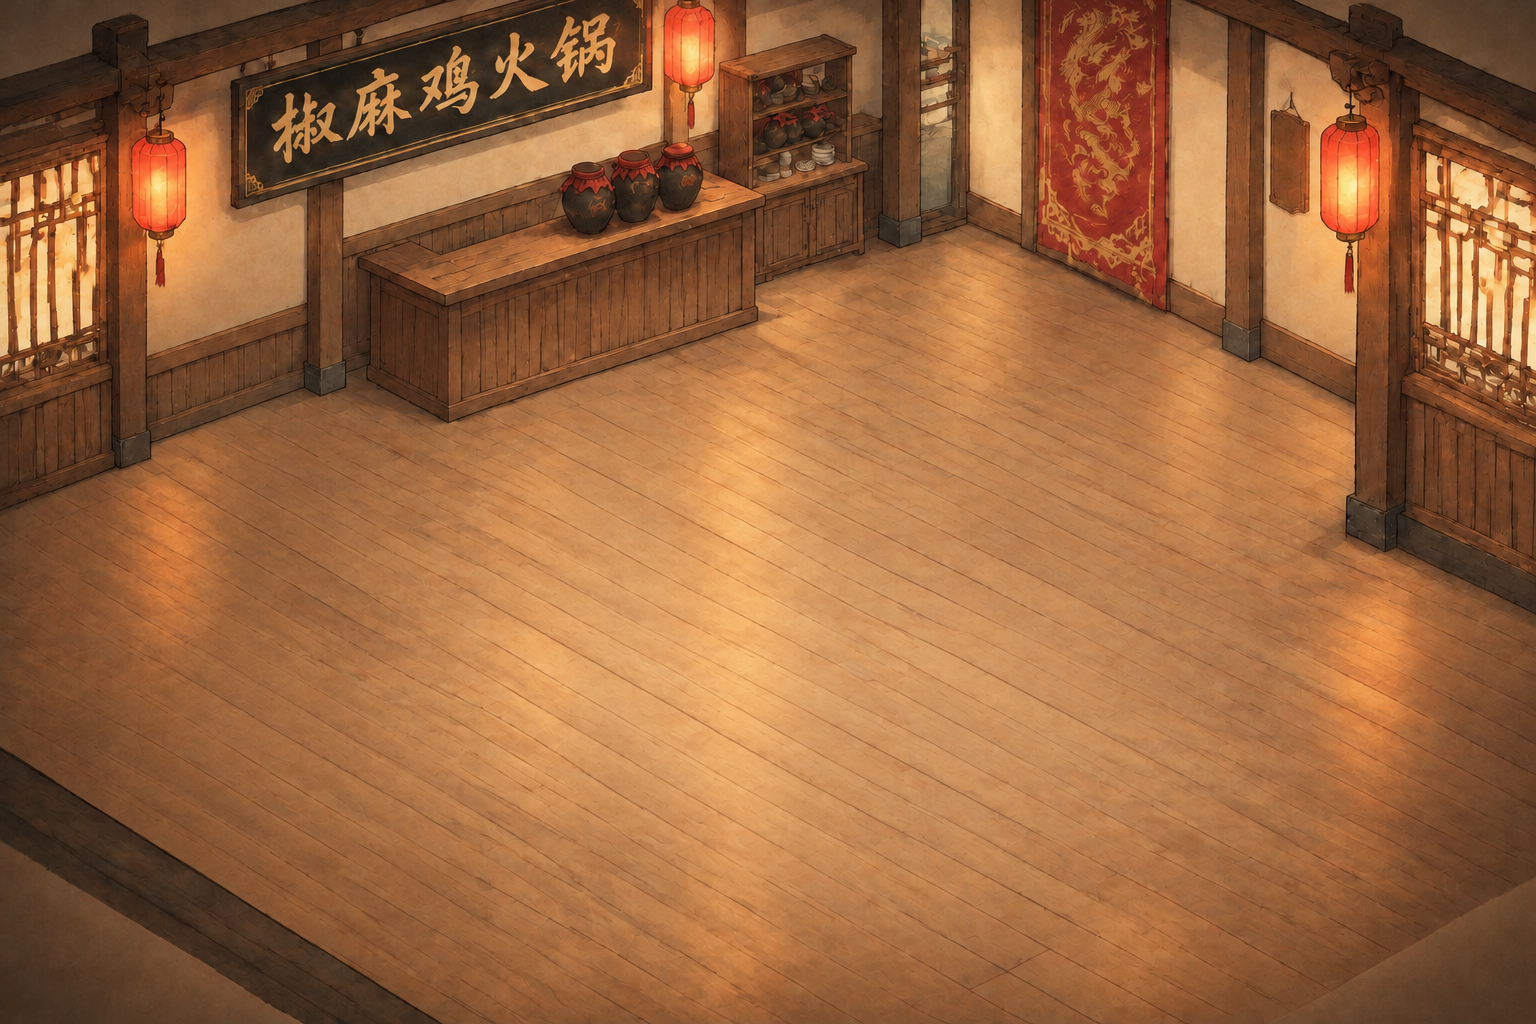
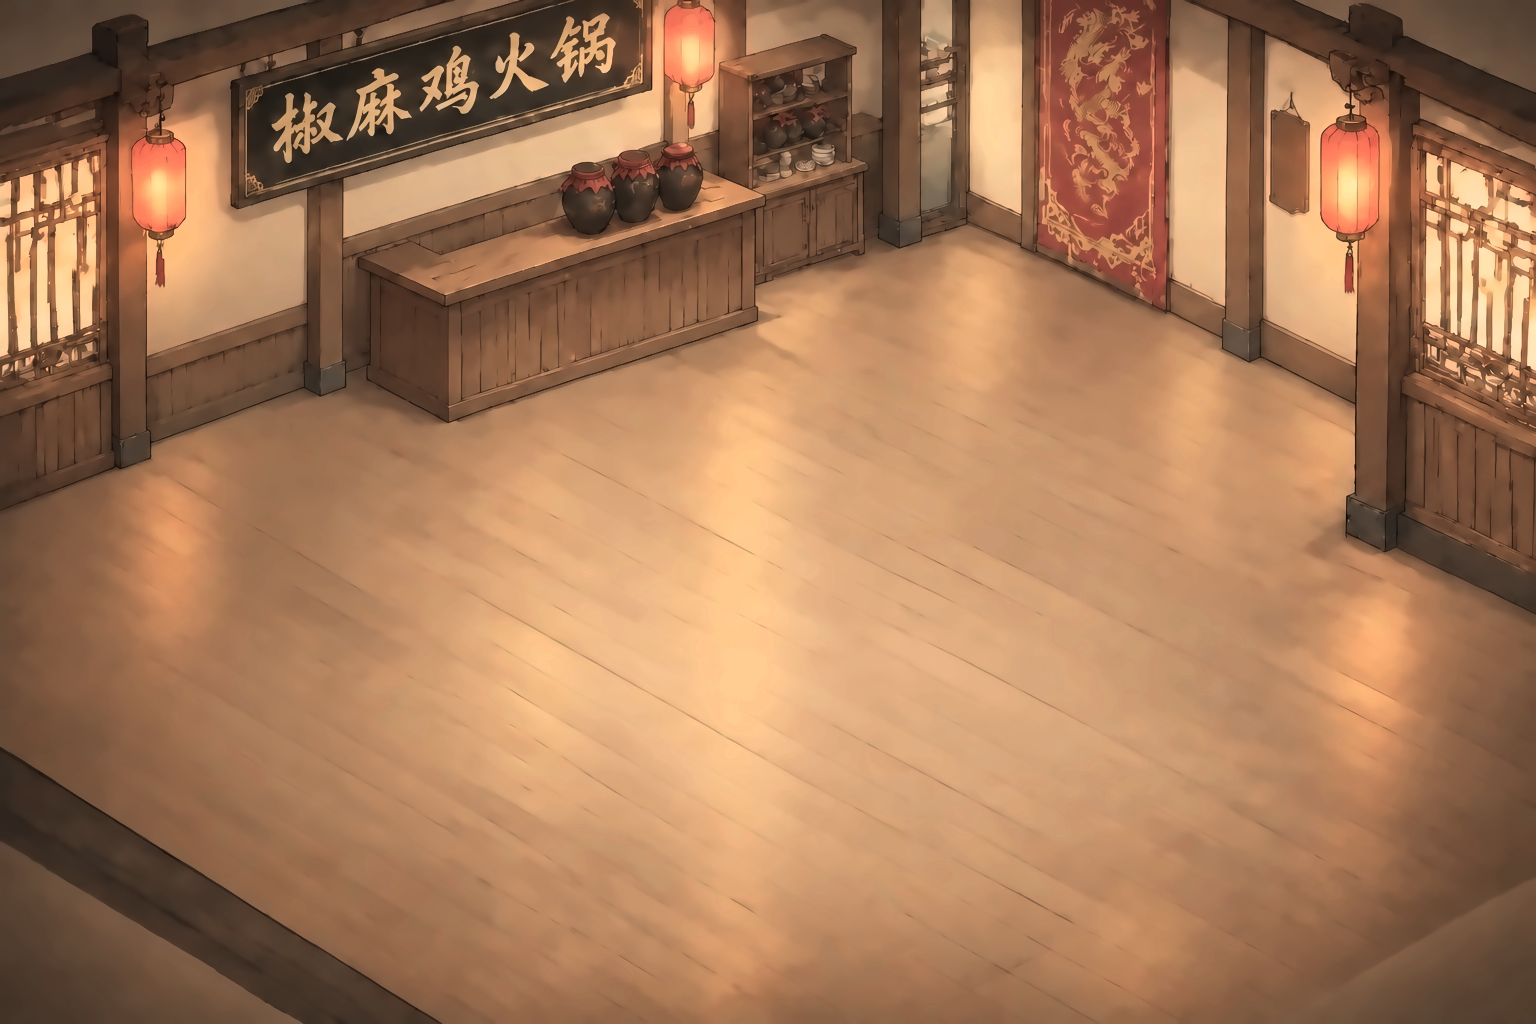
M10：战斗背景去噪

diff --git a/m10/assets.js b/m10/assets.js
@@ -1,5 +1,5 @@
 // 由 tools/prep_assets.py 自动生成，请勿手改。重跑 prep 即可更新。
-// 生成时间：2026-10-17 10:09:40  源目录：art/locked → art/ch4 → art/ch3 → art/m5 → art/m4 → art/m3
+// 生成时间：2026-10-17 10:26:45  源目录：art/locked → art/ch4 → art/ch3 → art/m5 → art/m4 → art/m3
 window.ASSETS = {
   "bg_room": {
     "file": "bg_room_clean.png",
@@ -274,8 +274,8 @@ window.ASSETS = {
     "src": "assets/npc_tongzi.png"
   },
   "bg_battle": {
-    "file": "bg_battle.png",
-    "from": "locked",
+    "file": "bg_battle_clean.png",
+    "from": "ch7",
     "srcW": 1536,
     "srcH": 1024,
     "w": 1536,

diff --git a/index.html b/index.html
@@ -66,7 +66,7 @@
     <!--/CARDS-->
     </main>
     <footer>
-      最后更新：<!--UPDATED-->2026-10-17 10:22（北京时间）<!--/UPDATED--><br>
+      最后更新：<!--UPDATED-->2026-10-17 10:33（北京时间）<!--/UPDATED--><br>
       电脑、手机浏览器均可游玩（手机建议横屏）· 进度保存在本机浏览器
     </footer>
   </div>
